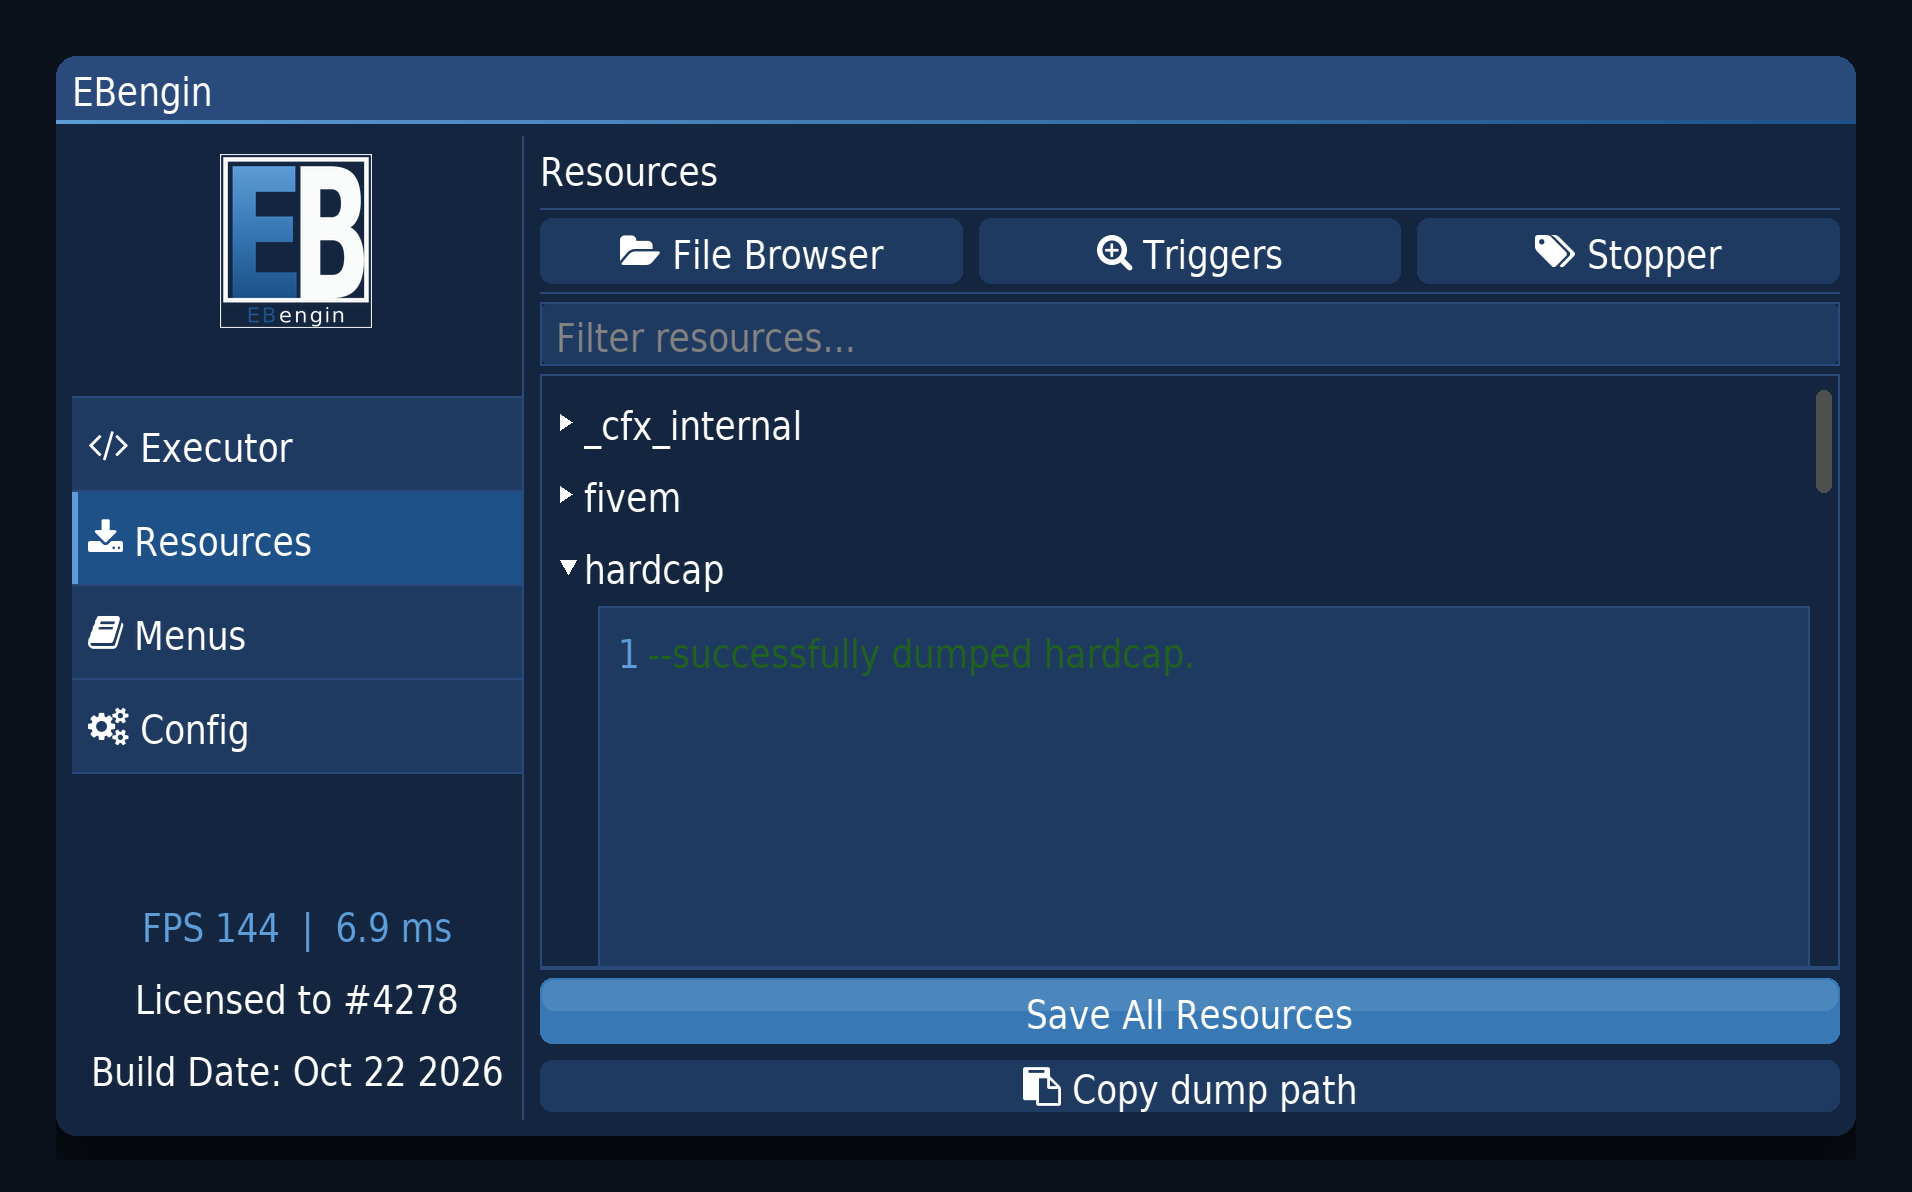
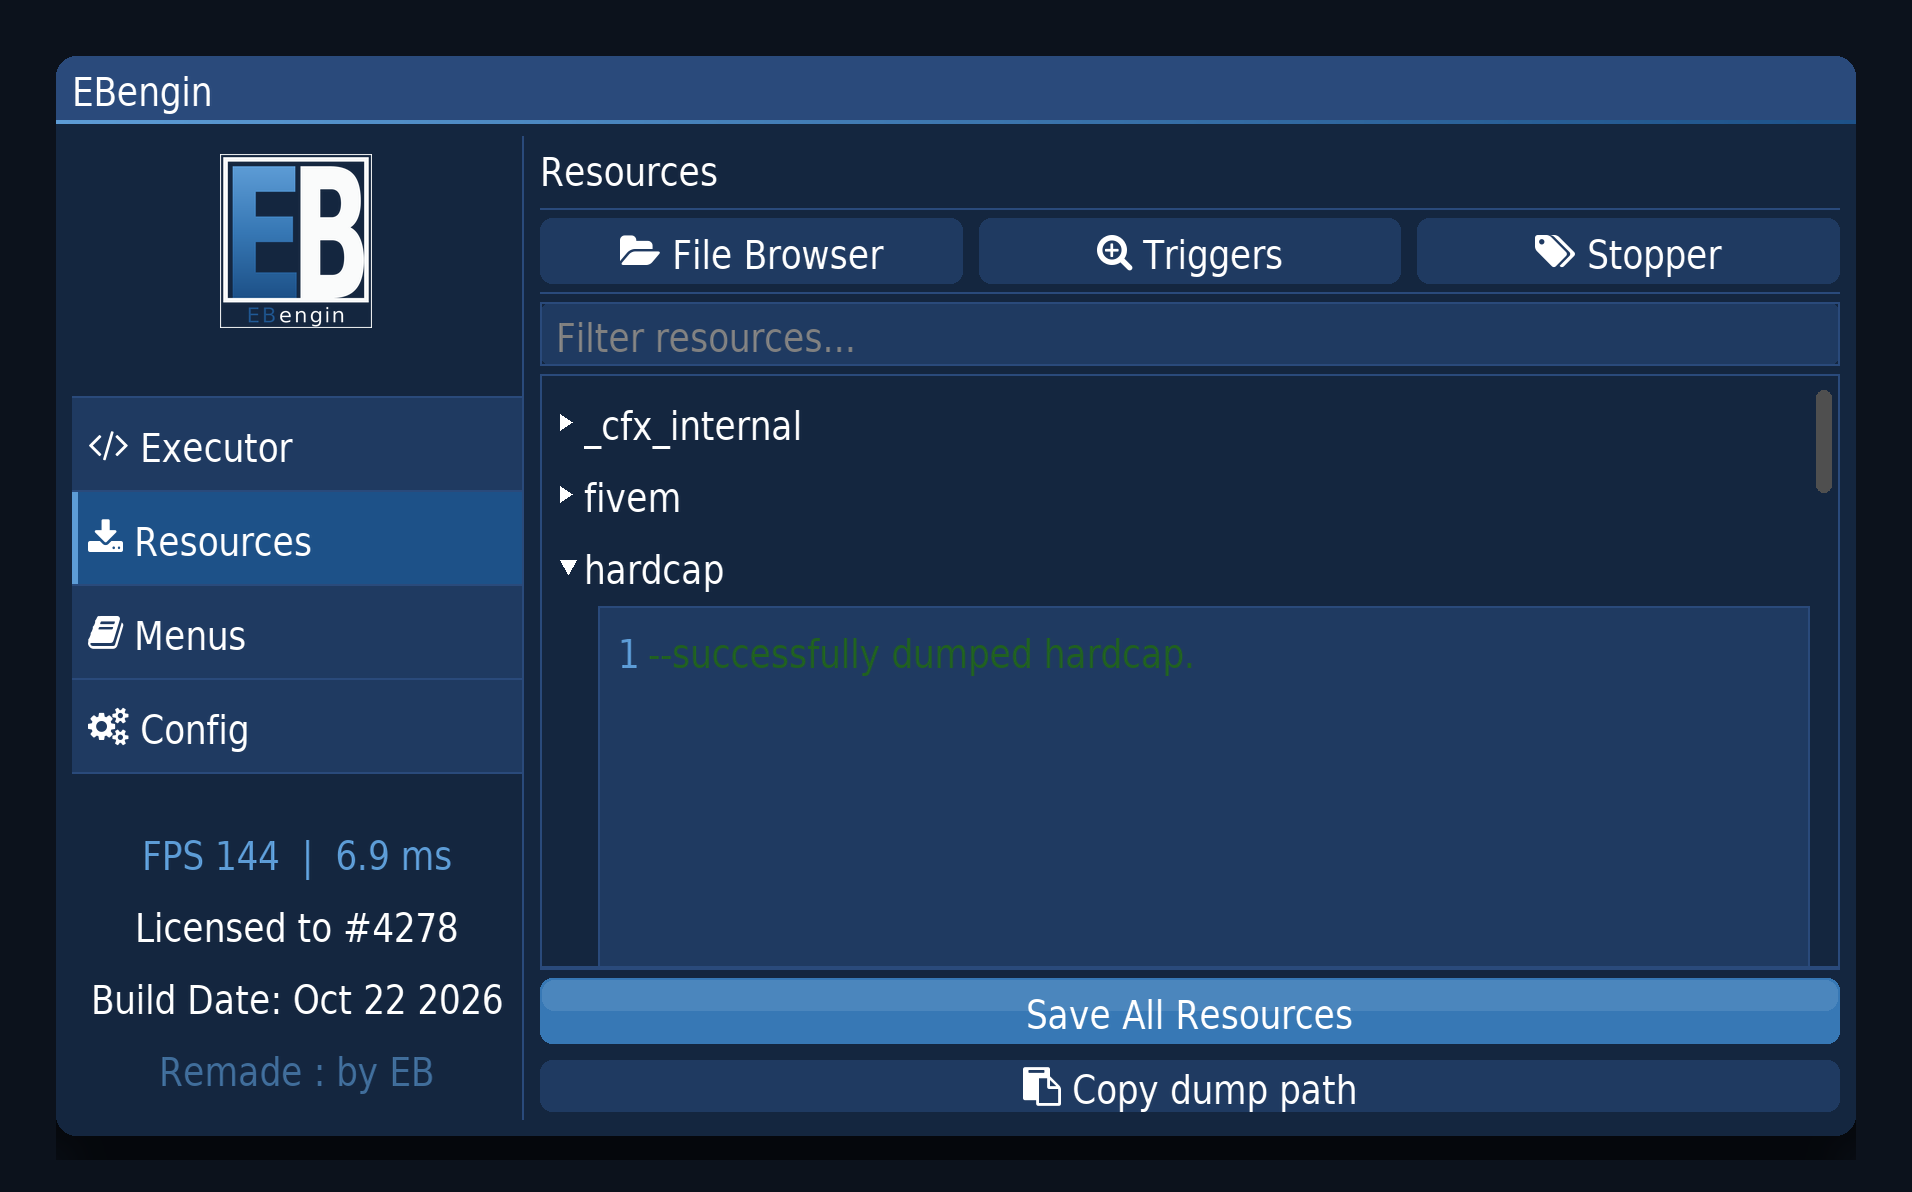
Make the brand visible in the UI: splash card, credit line, About block
- RenderSplash(): on the first open after inject a centred start card replaces
  the shell - logo, "Remade : by EB", separator, two honest hints, Continue
  primary button.  One static bool, no other state touched.
- Sidebar footer: muted fourth line "Remade : by EB".
- Config right pane: About block (EBengin in accent, credit + ImGui version
  muted, framed by separators).
- Renderer mirrors all three; new --splash branch writes preview_splash.png;
  its width asserts caught an over-long hint line before shipping.
- README splash paragraph, BUILD row 95, CHANGELOG entry.

Changed region(s): [[0.0617, 0.7139, 0.2777, 0.9312]]

diff --git a/docs/render_preview.py b/docs/render_preview.py
@@ -56,12 +56,15 @@ elif "--resources" in sys.argv[1:]:
     TAB = "resources"
 elif "--menus" in sys.argv[1:]:
     TAB = "menus"
+elif "--splash" in sys.argv[1:]:
+    TAB = "splash"
 else:
     TAB = "executor"
 OUT = os.path.join(REPO, "docs", {"executor": "preview.png",
                                   "config": "preview_config.png",
                                   "resources": "preview_resources.png",
-                                  "menus": "preview_menus.png"}[TAB])
+                                  "menus": "preview_menus.png",
+                                  "splash": "preview_splash.png"}[TAB])
 
 S = 2  # DPI scale: ImGui would render the same at 2x
 
@@ -142,6 +145,7 @@ C_ACCENT     = RGBA(93, 156, 214)    # Menu::Accent / SliderGrab    #5D9CD6
 C_FRAME_BG   = RGBA(31, 58, 97)      # ImGuiCol_FrameBg             #1F3A61
 C_BORDER     = RGBA(42, 74, 123)     # ImGuiCol_Border / _Separator #2A4A7B
 C_TEXT       = RGBA(255, 255, 255)   # ImGuiCol_Text (default, not overridden)
+C_MUTED_BRAND = blend((93, 156, 214, 153), C_WINDOW_BG)  # TextColored(93,156,214,153)
 
 # TextEditor.cpp GetDarkPalette(); Background/LineNumber are theme colours.
 P = {
@@ -261,6 +265,7 @@ f_icon = ImageFont.truetype(fa_path, int(ICON_SIZE * S))
 
 img = Image.new("RGBA", (W * S, H * S), (0, 0, 0, 0))
 d = ImageDraw.Draw(img)
+SURF = img          # alpha-composite target of T(); the splash branch swaps it
 
 
 def R(x0, y0, x1, y1, fill):
@@ -279,7 +284,7 @@ def _run(s, font, fill, condense):
 
 def T(x, y, s, fill, font=f_ui, condense=CONDENSE):
     tmp, _ = _run(s, font, fill, condense)
-    img.alpha_composite(tmp, (int(round(x*S)), int(round(y*S))))
+    SURF.alpha_composite(tmp, (int(round(x*S)), int(round(y*S))))
 
 
 def TW(s, font=f_ui, condense=CONDENSE):
@@ -299,6 +304,72 @@ def wrap_text(s, w):
     lines.append(cur)
     return lines
 
+
+if TAB == "splash":
+    # ------------------------------------------------------------------
+    # menu.cpp RenderSplash(): on the first open after inject the branded
+    # start card replaces the shell.  Standalone canvas: desktop background
+    # plus one centred, rounded card - no sidebar, no title bar.
+    # ------------------------------------------------------------------
+    MC, RADc = 28, 10
+    CWc, CHc = 460.0, 288.0
+    FW, FH = W + 2 * MC, H + 2 * MC
+    canvas = Image.new("RGBA", (FW * S, FH * S), (12, 18, 28, 255))
+    OX, OY = (FW - CWc) / 2, (FH - CHc) / 2
+
+    # three-rect drop shadow, same recipe the shell chrome uses
+    sh = Image.new("RGBA", (FW * S, FH * S), (0, 0, 0, 0))
+    ImageDraw.Draw(sh).rounded_rectangle(
+        [OX * S, OY * S, (OX + CWc) * S - 1, (OY + CHc) * S - 1],
+        radius=RADc * S, fill=(0, 0, 0, 150))
+    sh = sh.filter(ImageFilter.GaussianBlur(9 * S))
+    canvas.alpha_composite(sh, (0, int(12 * S)))
+
+    # R()/T() below draw onto the canvas, not onto the (unused) shell surface
+    d = ImageDraw.Draw(canvas)
+    SURF = canvas
+    d.rounded_rectangle([OX * S, OY * S, (OX + CWc) * S - 1, (OY + CHc) * S - 1],
+                        radius=RADc * S, fill=C_WINDOW_BG)
+    d.rounded_rectangle([OX * S, OY * S, (OX + CWc) * S - 1, (OY + CHc) * S - 1],
+                        radius=RADc * S, outline=C_BORDER, width=S)
+
+    CREDIT = "Remade : by EB"
+    HINT1 = "Interface-level: no game state is read or written."
+    HINT2 = "INSERT toggles this overlay at any time."
+    BTN = "Continue"
+    for t in (CREDIT, HINT1, HINT2, BTN):
+        assert TW(t) <= CWc - 16, "splash line clipped: " + t
+
+    ly = OY + 18
+    lg = Image.open(os.path.join(REPO, "EBengin.png")).convert("RGBA")
+    lg = lg.resize((int(110 * S), int(127 * S)), Image.LANCZOS)
+    canvas.alpha_composite(lg, (int((OX + (CWc - 110) / 2) * S), int(ly * S)))
+    ly += 127 + ITEM_SPACING_Y
+    T(OX + (CWc - TW(CREDIT)) / 2, ly, CREDIT, C_MUTED_BRAND)
+    ly += FONT_SIZE + ITEM_SPACING_Y
+    ly += ITEM_SPACING_Y                              # ImGui::Spacing()
+    R(OX + 8, ly, OX + CWc - 8, ly + 1, C_BORDER)     # Gui::Seperator
+    ly += 1 + ITEM_SPACING_Y
+    ly += ITEM_SPACING_Y                              # ImGui::Spacing()
+    T(OX + (CWc - TW(HINT1)) / 2, ly, HINT1, C_TEXT)
+    ly += FONT_SIZE + ITEM_SPACING_Y
+    T(OX + (CWc - TW(HINT2)) / 2, ly, HINT2, C_TEXT)
+    ly += FONT_SIZE + ITEM_SPACING_Y
+    ly += ITEM_SPACING_Y                              # ImGui::Spacing()
+    bx, BW, BH = OX + (CWc - 140) / 2, 140.0, 30.0
+    d.rounded_rectangle([bx * S, ly * S, (bx + BW) * S - 1, (ly + BH) * S - 1],
+                        radius=6 * S, fill=C_PRIMARY)
+    d.rounded_rectangle([(bx + 1) * S, (ly + 1) * S, (bx + BW - 1) * S - 1,
+                         (ly + BH / 2) * S - 1], radius=6 * S,
+                        fill=blend((255, 255, 255, 26), C_PRIMARY))
+    T(bx + (BW - TW(BTN)) / 2, ly + (BH - FONT_SIZE) / 2, BTN, C_TEXT)
+    ly += BH
+    assert ly <= OY + CHc - 8, "splash card overflows: %.1f" % ly
+
+    canvas.save(OUT, optimize=True)
+    os.unlink(fa_path)
+    print("geschrieben:", OUT, "(splash)", os.path.getsize(OUT), "Bytes", canvas.size)
+    sys.exit(0)
 
 # window + title bar (WindowTitleAlign 0,0.5; NoCollapse + p_open NULL)
 R(0, 0, W, H, C_WINDOW_BG)
@@ -339,10 +410,11 @@ for i, (glyph, label) in enumerate(SIDEBAR):
     by += 1
 
 # footer: bottom-anchored, each line centred in the sidebar column
-FOOTER_TOP = H - WIN_PAD - 3 * LINE_ADV
+FOOTER_TOP = H - WIN_PAD - 4 * LINE_ADV
 FOOTER = [("FPS 144  |  6.9 ms", C_ACCENT),
           ("Licensed to #4278", C_TEXT),
-          ("Build Date: Oct 22 2026", C_TEXT)]
+          ("Build Date: Oct 22 2026", C_TEXT),
+          ("Remade : by EB", C_MUTED_BRAND)]
 for k, (line, col) in enumerate(FOOTER):
     assert TW(line) <= SIDEBAR_W, "Footer ueberlaeuft die Sidebar: %s" % line
     T(SX0 + (SIDEBAR_W - TW(line)) / 2, FOOTER_TOP + k * LINE_ADV, line, col)
@@ -548,6 +620,19 @@ elif TAB == "config":
     ry = heading(rx0, ry, "Server IP: not connected", C_MUTED)
     ry = sep(rx0, rx1, ry)
 
+    # --- About block (config.cpp): visible brand name + credit ------------
+    ry += ITEM_SPACING_Y                              # ImGui::Spacing()
+    ry = heading(rx0, ry, "About", C_TEXT)
+    ry += ITEM_SPACING_Y                              # ImGui::Spacing()
+    ry = sep(rx0, rx1, ry)
+    T(rx0, ry, "EBengin", C_ACCENT)
+    ry += TEXT_LH + ITEM_SPACING_Y
+    T(rx0, ry, "Remade : by EB", C_MUTED)
+    ry += TEXT_LH + ITEM_SPACING_Y
+    T(rx0, ry, "Interface: ImGui 1.92.9 (ocornut)", C_MUTED)
+    ry += TEXT_LH + ITEM_SPACING_Y
+    ry = sep(rx0, rx1, ry)
+
     # --- the pane is only a third of the column and ImGui::Text does not
     # wrap, so these asserts are what keeps a label from being clipped ---
     for s in ("Safe Mode", "ScriptHook Bypass", "Interface"):
@@ -558,7 +643,8 @@ elif TAB == "config":
         assert TW(lab) + 2 * FRAME_PAD_X <= pane_w, "button label clipped: " + lab
     for lab in ("Reset interface settings", "Interface scale 100%"):
         assert TW(lab) <= pane_w, "label clipped: " + lab
-    for s in ("Server related stuff", "Server IP: not connected"):
+    for s in ("Server related stuff", "Server IP: not connected", "About",
+              "EBengin", "Remade : by EB", "Interface: ImGui 1.92.9 (ocornut)"):
         assert TW(s) <= rx1 - rx0, "right pane clipped: " + s
     assert ly <= bot + 0.5, "left Config pane overflows: %.1f > %.1f" % (ly, bot)
     assert ry <= bot + 0.5, "right Config pane overflows: %.1f > %.1f" % (ry, bot)

diff --git a/menu.cpp b/menu.cpp
@@ -25,6 +25,8 @@ namespace Menu
 	// Consumed once by RenderSidebar() to hand keyboard-nav focus to the
 	// sidebar entry of the open tab.
 	static bool g_justOpened = false;
+	// The branded start card shows on the first open after inject, once.
+	static bool g_splashDone = false;
 
 	static const SidebarItem SidebarItems[] =
 	{
@@ -150,7 +152,7 @@ namespace Menu
 		snprintf(buildDate, sizeof(buildDate), "Build Date: %s", __DATE__);
 
 		ImGui::SetCursorPosY(ImGui::GetWindowHeight() - ImGui::GetStyle().WindowPadding.y
-			- 3.0f * ImGui::GetTextLineHeightWithSpacing());
+			- 4.0f * ImGui::GetTextLineHeightWithSpacing());
 
 		// Live frame rate / frame time from ImGui's own smoothed counter, so the
 		// overlay can answer "is it the menu or the game?" without a profiler.
@@ -162,6 +164,9 @@ namespace Menu
 
 		CenteredInSidebar("Licensed to #4278");
 		CenteredInSidebar(buildDate);
+
+		// Visible brand credit, same wording as the source comment.
+		CenteredInSidebarColored("Remade : by EB", ImColor(93, 156, 214, 153));
 
 		// The old layout ended with
 		//     SetCursorPosY(GetWindowHeight() - 10); Text("");
@@ -188,6 +193,69 @@ namespace Menu
 		if (x > vx + vw - strip) x = vx + vw - strip;
 		if (y < vy - h + strip) y = vy - h + strip;
 		if (y > vy + vh - strip) y = vy + vh - strip;
+	}
+
+	// Branded start card in front of the shell: shown on the first open after
+	// inject until the user presses Continue.  Pure presentation - logo, name,
+	// credit and two honest hints; it touches no state beyond g_splashDone.
+	static void RenderSplash(float fade)
+	{
+		ImGui::PushStyleVar(ImGuiStyleVar_Alpha, fade);
+
+		const ImVec2 disp = ImGui::GetIO().DisplaySize;
+		const ImVec2 card(Settings::Px(460.0f), Settings::Px(288.0f));
+		ImGui::SetNextWindowSize(card, ImGuiCond_Always);
+		ImGui::SetNextWindowPos(ImVec2(disp.x * 0.5f, disp.y * 0.5f),
+			ImGuiCond_Always, ImVec2(0.5f, 0.5f));
+
+		ImGui::Begin("EBengin Splash", NULL,
+			ImGuiWindowFlags_NoTitleBar | ImGuiWindowFlags_NoResize |
+			ImGuiWindowFlags_NoCollapse | ImGuiWindowFlags_NoScrollbar |
+			ImGuiWindowFlags_NoSavedSettings);
+
+		auto Centered = [](const char* text, ImU32 col)
+		{
+			const float w = ImGui::CalcTextSize(text).x;
+			ImGui::SetCursorPosX(ImGui::GetCursorPosX() +
+				ImMax(0.0f, (ImGui::GetContentRegionAvail().x - w) * 0.5f));
+			ImGui::TextColored(ImGui::ColorConvertU32ToFloat4(col), "%s", text);
+		};
+
+		ImGui::SetCursorPosY(ImGui::GetCursorPosY() + Settings::Px(18.0f));
+		if (LogoLoaded)
+		{
+			const float lw = Settings::Px(110.0f);
+			ImGui::SetCursorPosX(ImGui::GetCursorPosX() +
+				ImMax(0.0f, (ImGui::GetContentRegionAvail().x - lw) * 0.5f));
+			// 110 x 127 keeps the 76:87 aspect of EBengin.png.
+			ImGui::Image((ImTextureID)(intptr_t)logo,
+				ImVec2(lw, Settings::Px(127.0f)));
+		}
+		else
+		{
+			Centered("EBengin", ImColor(93, 156, 214, 255));
+		}
+
+		Centered("Remade : by EB", ImColor(93, 156, 214, 153));
+
+		ImGui::Spacing();
+		Gui::Seperator("##splash_seperator");
+		ImGui::Spacing();
+
+		Centered("Interface-level: no game state is read or written.",
+			ImColor(255, 255, 255, 255));
+		Centered("INSERT toggles this overlay at any time.",
+			ImColor(255, 255, 255, 255));
+
+		ImGui::Spacing();
+		const float bw = Settings::Px(140.0f);
+		ImGui::SetCursorPosX(ImGui::GetCursorPosX() +
+			ImMax(0.0f, (ImGui::GetContentRegionAvail().x - bw) * 0.5f));
+		if (Gui::PrimaryButton("Continue", ImVec2(bw, Settings::Px(30.0f))))
+			g_splashDone = true;
+
+		ImGui::End();
+		ImGui::PopStyleVar();
 	}
 
 	void Render()
@@ -222,6 +290,14 @@ namespace Menu
 				const float u = (float)t;
 				fade = 1.0f - (1.0f - u) * (1.0f - u) * (1.0f - u);   // ease-out cubic
 			}
+		}
+
+		// First open per session: the branded start card replaces the shell
+		// until dismissed; nothing else runs, so no state is touched.
+		if (!g_splashDone)
+		{
+			RenderSplash(fade);
+			return;
 		}
 
 		// Soft drop shadow under the rounded window, drawn one frame late (the

diff --git a/config.cpp b/config.cpp
@@ -200,6 +200,16 @@ namespace Config
 		// server, so don't imply that it does.
 		ImGui::TextColored(ImColor(93, 156, 214, 153), "Server IP: not connected");
 		Gui::Seperator("##server_seperator_2");
+
+		// Visible brand block: name, credit and the interface this UI builds on.
+		ImGui::Spacing();
+		ImGui::Text("About");
+		ImGui::Spacing();
+		Gui::Seperator("##about_seperator_1");
+		ImGui::TextColored(ImColor(93, 156, 214, 255), "EBengin");
+		ImGui::TextColored(ImColor(93, 156, 214, 153), "Remade : by EB");
+		ImGui::TextColored(ImColor(93, 156, 214, 153), "Interface: ImGui 1.92.9 (ocornut)");
+		Gui::Seperator("##about_seperator_2");
 		ImGui::EndChild();
 	}
 }

diff --git a/BUILD.md b/BUILD.md
@@ -219,6 +219,7 @@ Separate from the build fixes above: these are bugs that compiled fine but misbe
 | 92 | A `settings.ini` in a folder without write permission failed silently: `WritePrivateProfileStringA`'s return value was ignored, so every preference looked saved and nothing survived a re-inject — indistinguishable from working persistence | `WriteInt` reports success, `Save()` aggregates it, and the first failure pushes an activity entry plus a warn toast ("is the DLL folder writable?"); `Settings::SaveFailed()` exposes the state |
 | 93 | The product still carried its upstream name everywhere a user looks - window title, 14 message-box captions, the sidebar text-logo fallback, the logo asset `rE.png`, the solution / project / output file names and the docs prose - although the project is EBengin | Rebranded end to end: new `EBengin.png` (EB monogram in the user's blue ramp + two-tone "EBengin" wordmark, same frame geometry and canvas as before), window title, fallback text, all 14 captions and the renderer strings say "EBengin", the solution is `EBengin UI.sln` with `ProjectName`/DLL `EBengin UI`, `build.bat` and `ci/build.yml` copy the new logo; historical mentions (recolour note, earlier fix rows; the credit comment was re-credited afterwards, row 94) were deliberately left untouched |
 | 94 | After the rebrand the menu.cpp credit comment still carried the upstream line `//redENGINE Remade : by xo1337` | Re-credited on owner request: the comment now reads `//Remade : by EB`; the upstream attribution remains in the README credits line and in the changelog |
+| 95 | The rebrand stayed invisible in the running UI beyond the title bar: no credit line, no start card, no brand block where a user actually looks | `RenderSplash()` shows a branded start card on the first open per inject (logo, name, "Remade : by EB", two honest hints, Continue); the sidebar footer gains a muted fourth credit line and Config's right pane an About block (name, credit, ImGui version); the renderer mirrors all three and adds a `--splash` preview |
 
 
 

diff --git a/CHANGELOG.md b/CHANGELOG.md
@@ -8,6 +8,17 @@ say so in the UI - see README and PR #1.
 
 "row N" refers to the fix table in `BUILD.md` §5, "§N" to the PR body.
 
+## Visible branding in the UI
+- Splash / start card: on the first open after inject, `RenderSplash()` in menu.cpp draws a
+  centred card instead of the shell - logo 110x127, the muted credit "Remade : by EB", a
+  separator, two honest hints and a Continue primary button.  Dismissing it flips one static
+  bool; no other state is touched.  New preview `docs/preview_splash.png` (`--splash`).
+- Sidebar footer: muted fourth line "Remade : by EB", same wording as the source comment.
+- Config right pane: About block - EBengin in accent, credit and ImGui version muted, framed
+  by separators.
+- The renderer mirrors all three additions; its width asserts caught one over-long hint line
+  before shipping, shortened identically in code and renderer.
+
 ## Credit line re-credited
 - The source credit comment in menu.cpp now reads `//Remade : by EB` (owner decision); it
   previously carried the upstream line `//redENGINE Remade : by xo1337`.

diff --git a/README.md b/README.md
@@ -49,6 +49,12 @@ Everything is vendored in-tree — no submodules, no package manager, no externa
 > stubs. The names are the repository's own lists; launching them remains
 > unimplemented and says so.
 
+First open after inject shows a branded start card instead of the shell - logo,
+name and the credit line, dismissed with Continue.  Fifth render
+(`python docs/render_preview.py --splash`):
+
+![EBengin splash card](docs/preview_splash.png)
+
 ## Layout
 
 | Path | What it is |
